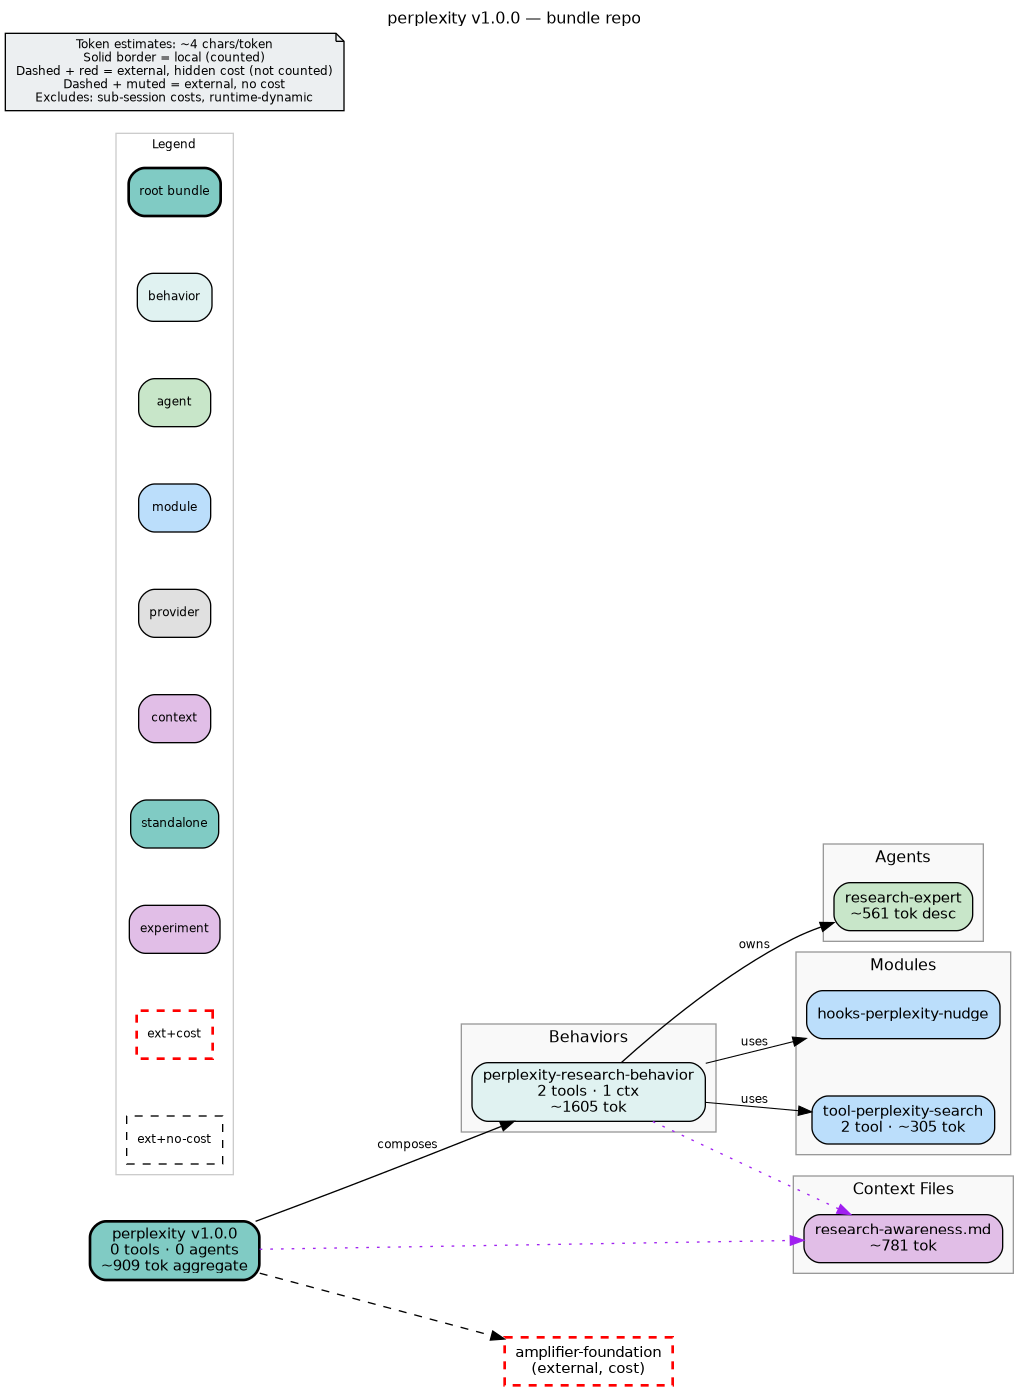
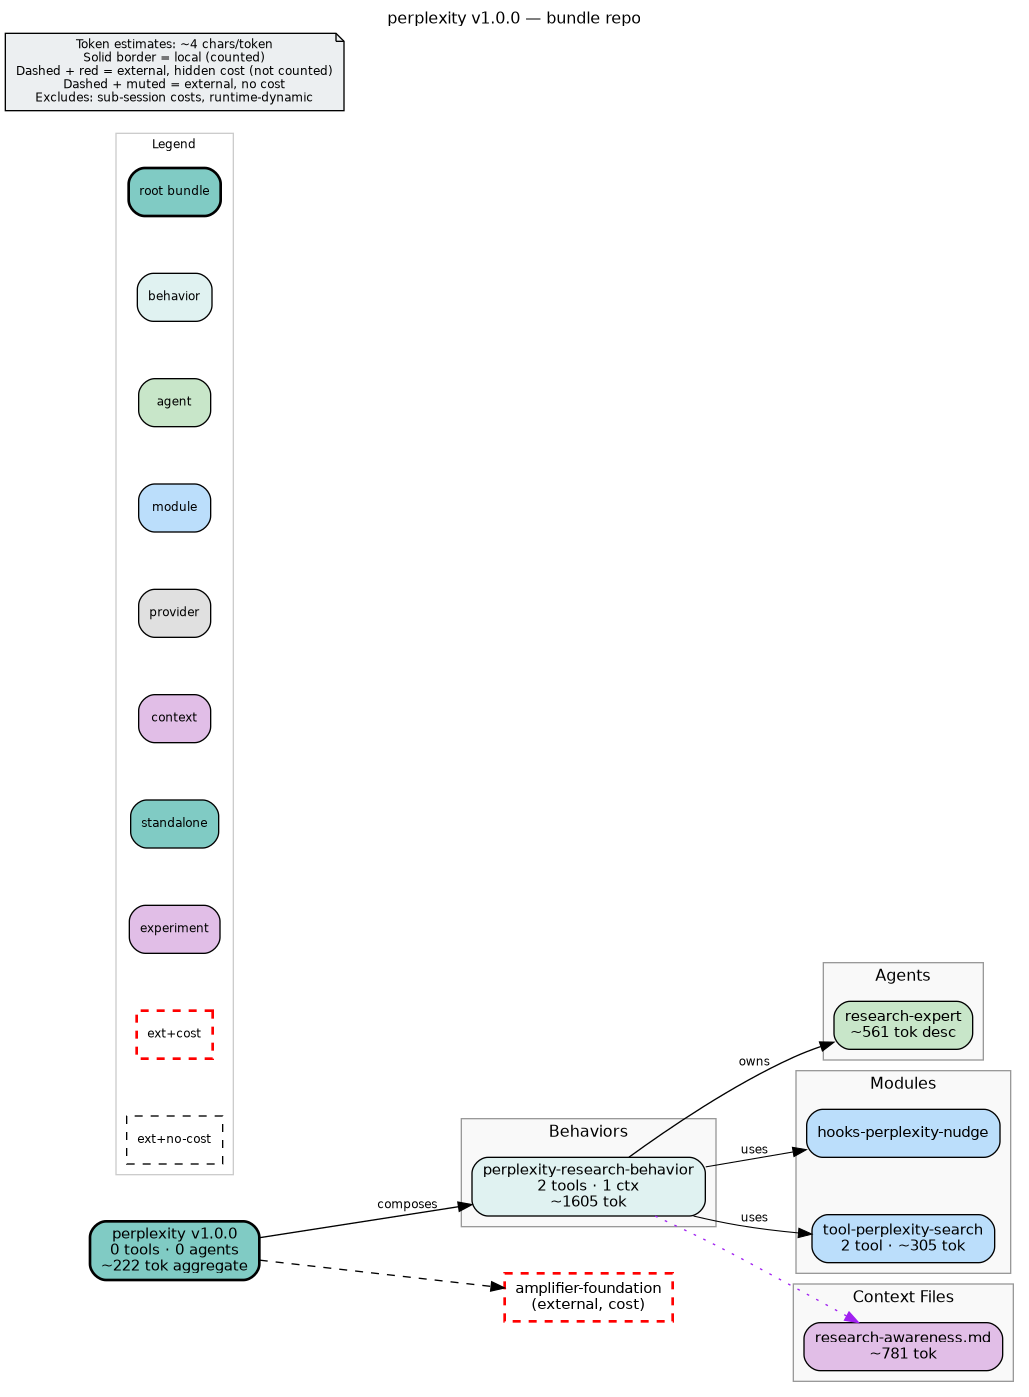
fix: make recipes executable and remove bundle.md context double-load

diff --git a/bundle.md b/bundle.md
@@ -13,6 +13,12 @@ includes:
 
 # Perplexity Deep Research
 
-@perplexity:context/research-awareness.md
+<!--
+  Awareness context (research-awareness.md) is injected once via the behavior's
+  `context.include` (behaviors/perplexity-research.yaml). It is intentionally NOT
+  @mentioned here to avoid a double-load in the standalone root-bundle path —
+  the body-instruction channel and the behavior's context.include channel are not
+  cross-deduplicated. The behavior is the single source of the awareness injection.
+-->
 
 @foundation:context/shared/common-system-base.md
